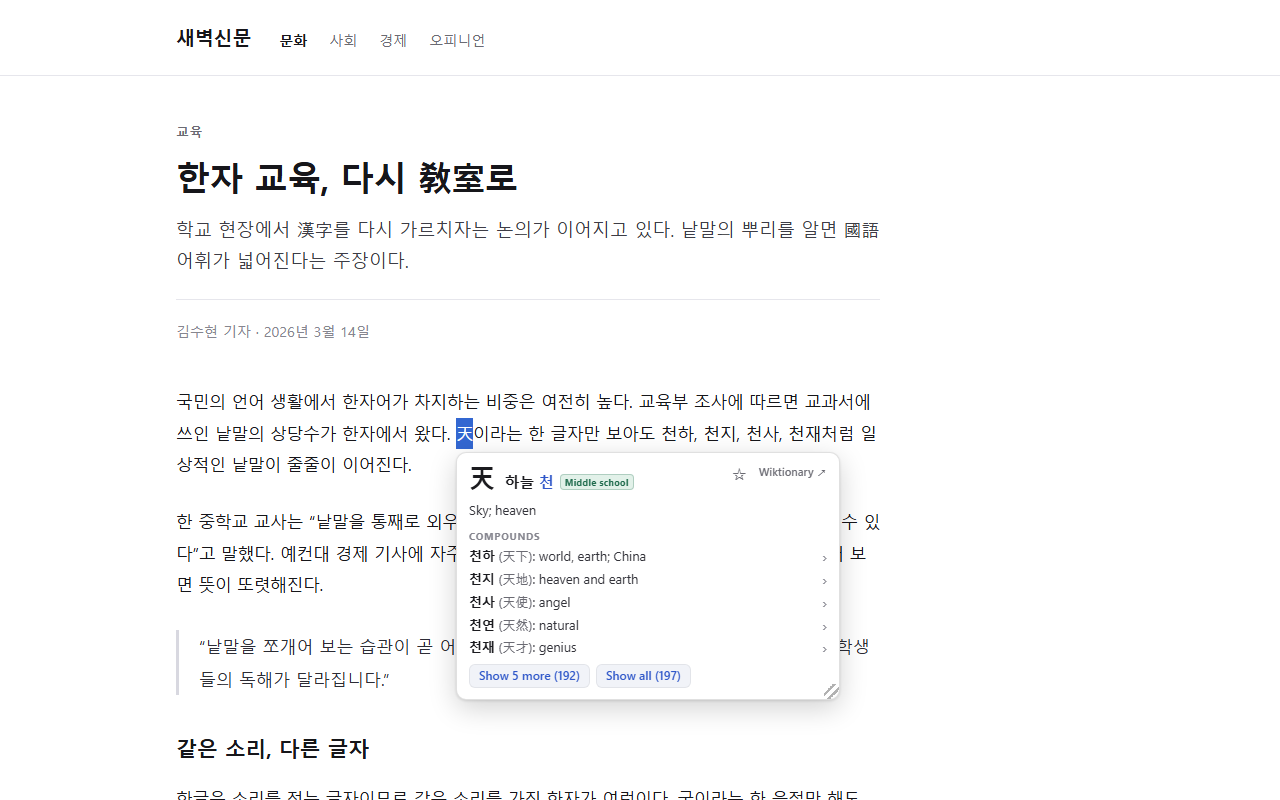
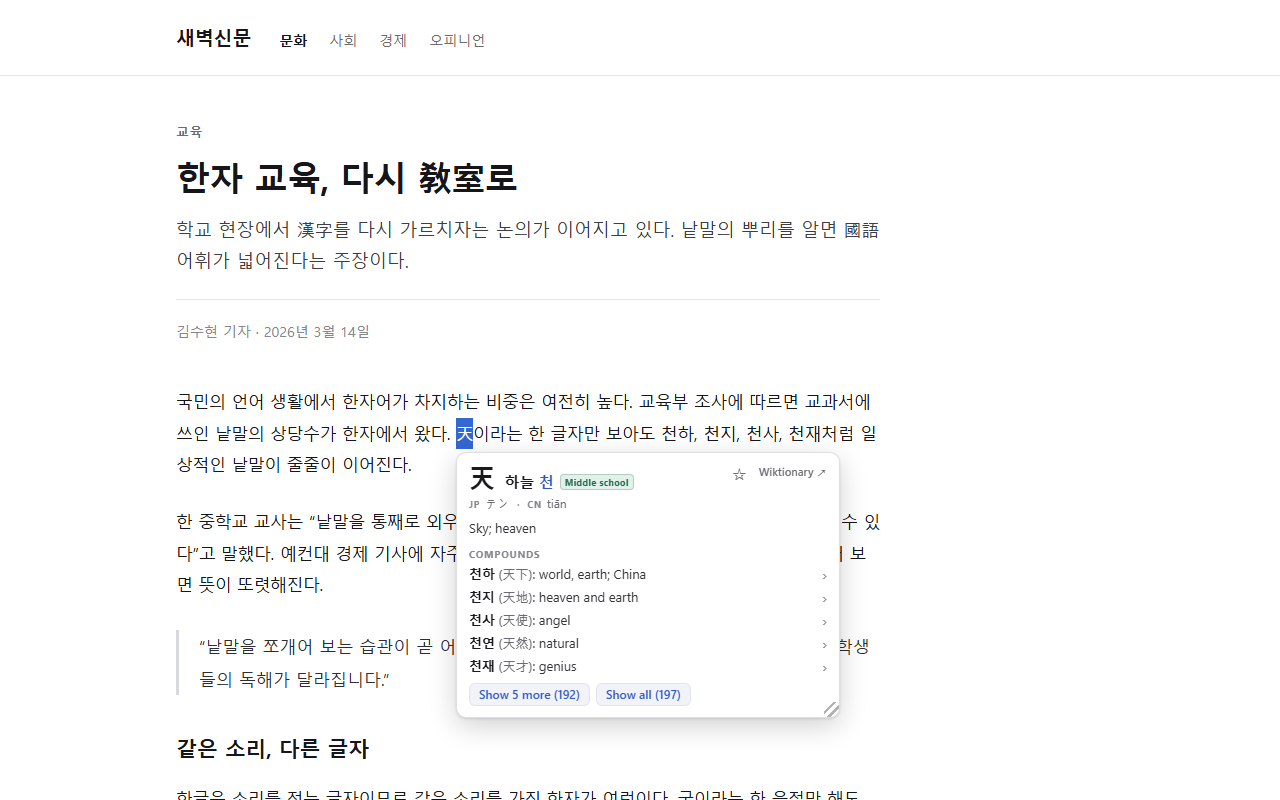
Screenshots: 1.2 scene refresh; scenes seed settings via set=
Both staging pages accept set= naming settings keys to turn on
through the same normalize step the worker uses, retiring the
hand-edit-and-revert capture practice; absent the param both pages
are byte-identical to before, proven by shots 3, 4, and 6
regenerating unchanged. Shots 1, 2, 8, 9 seed the reading toggles and
5 seeds native words, each keeping its subject with the new features
merely present, per direction. Shot 7 grew the new settings groups
and footer; its seal correctly retires under the room rule and the
checks now pin the groups and the in-frame footer instead. New DOM
checks pin the sino line text on 1 and 9, nested lines on 2 and 8,
and the pill pair on 5.

Changed region(s): [[0.3438, 0.625, 0.6562, 0.9062]]

diff --git a/pipeline/screenshots/shots-page.html b/pipeline/screenshots/shots-page.html
@@ -19,6 +19,7 @@
     scroll=N   window scroll offset before the selection is made
     w=N        popup width handed to the product's own resizePanel
     bottom=N   gap to leave under the popup when sizing it to its content
+    set=K,K    settings keys to turn on (e.g. set=jaReadings,zhReadings)
 
   Signals completion by setting documentElement.dataset.shotReady.
 -->
@@ -198,27 +199,43 @@ import { lookup, buildFullCompounds, buildUsedIn, buildReadingIndex }
   from "/extension/lookup.js";
 import { normalizeSavedState, normalizeSettings, checkKeys, toggleItem, joinItems }
   from "/extension/saved.js";
+/* The sino join is the worker's, not a copy of it: background.js guards every
+   chrome.* touch, so importing it here runs the real guardSino / attachSino
+   against the real sino.json. */
+import { guardSino, attachSino } from "/extension/background.js";
 
 const params = new URLSearchParams(location.search);
 const scene = params.get("scene") || "1";
 const scrollY = Number(params.get("scroll") || 0);
 
-const [hanja, words, variants] = await Promise.all(
-  ["hanja", "words", "variants"].map((n) =>
+const [hanja, words, variants, sinoRaw] = await Promise.all(
+  ["hanja", "words", "variants", "sino"].map((n) =>
     fetch("/extension/data/" + n + ".json").then((r) => r.json())));
 
 let readingIndex = null;
+const sino = guardSino(sinoRaw);
 const data = {
   hanja, words, variants,
   getReadingIndex: () => (readingIndex ||= buildReadingIndex(hanja)),
 };
 
 let savedState = normalizeSavedState(null);
-const settings = normalizeSettings(null, savedState);
+// ?set=jaReadings,zhReadings names settings keys a scene turns on, through the
+// same normalize step the worker uses; this replaces hand-editing the defaults
+// for a capture. Absent, the defaults stand and the page renders as before.
+const seeded = {};
+for (const key of (params.get("set") || "").split(",")) if (key) seeded[key] = true;
+const settings = normalizeSettings(seeded, savedState);
 
 function handle(msg) {
   switch (msg && msg.type) {
-    case "lookup": return lookup(String(msg.text || ""), data);
+    // Worker-style: only a sino-flagged request (content.js sets the flag when
+    // either seeded readings toggle is on) touches sino.json, so an unseeded
+    // scene's response is byte-identical to before the feature.
+    case "lookup": {
+      const result = lookup(String(msg.text || ""), data);
+      return msg.sino === true ? attachSino(result, sino) : result;
+    }
     case "compounds": return { ok: true, compounds: buildFullCompounds(msg.char, data) };
     case "usedIn": return { ok: true, words: buildUsedIn(msg.word, data) };
     case "openTab": return { ok: true };
@@ -256,6 +273,12 @@ await new Promise((res, rej) => {
 
 const api = globalThis.__hanjaHover;
 const sleep = (ms) => new Promise((r) => setTimeout(r, ms));
+
+// The popup reads its toggles from a settings cache that chrome.storage seeds
+// in the shipped build; a bare page hands the record to the test hook instead.
+// Only a seeded scene touches the hook, so without ?set= the cache stays null,
+// exactly as before.
+if (params.get("set")) api.setSettings(settings);
 
 function select(id) {
   const node = document.getElementById(id);

diff --git a/pipeline/screenshots/shots-panel.html b/pipeline/screenshots/shots-panel.html
@@ -19,6 +19,7 @@
     q=TEXT                       type TEXT into the search field and search
     collapse=NAME,NAME           collapse these saved folders by name (or prefix)
     expand=madeof                open the card's "Made of" row, as a tap does
+    set=KEY,KEY                  settings keys to turn on (e.g. set=nativeWords)
 
   Signals completion by setting documentElement.dataset.shotReady.
 -->
@@ -119,7 +120,12 @@ let savedState = normalizeSavedState({
   nextFolder: 3,
   nextItem: seedItems.length,
 });
-let settings = normalizeSettings({ v: 1, defaultFolderId: "f1" }, savedState);
+// ?set=nativeWords,jaReadings names settings keys a scene turns on, through
+// the same normalize step; this replaces hand-editing the defaults for a
+// capture. Absent, the record is byte-identical to what it always was.
+const seeded = {};
+for (const key of (params.get("set") || "").split(",")) if (key) seeded[key] = true;
+let settings = normalizeSettings({ v: 1, defaultFolderId: "f1", ...seeded }, savedState);
 
 function handle(msg) {
   const m = msg || {};
@@ -128,9 +134,9 @@ function handle(msg) {
       // The flags ride through exactly as the worker passes them: interpret
       // for typed channels, native only when the client's toggle is on, and
       // sino attaches its per-char readings after the join, worker-style.
-      // The stub's default settings leave both readings toggles off, so no
-      // request here ever carries the flag and the page renders exactly as
-      // it did before the feature.
+      // Absent ?set=, the stub's defaults leave every toggle off, so no
+      // request here ever carries a flag and the page renders exactly as
+      // it did before the features.
       const joined = attachFoundIn(
         attachDecomp(lookup(String(m.text || ""), data,
           { interpret: m.interpret === true, native: m.native === true }),

diff --git a/pipeline/make_screenshots.py b/pipeline/make_screenshots.py
@@ -85,7 +85,9 @@ SEPARATOR_DARK = (60, 64, 67)
 #
 # Every shot is either a whole-viewport page capture ("page") or a page capture
 # docked beside a side-panel capture ("composite"). `page` and `panel` are query
-# strings for the staging pages; `checks` are JS expressions that must all
+# strings for the staging pages; a "set" key in either turns the named settings
+# toggles on for the scene (the committed seeding path; no defaults are ever
+# hand-edited for a capture). `checks` are JS expressions that must all
 # evaluate true after the page signals ready, before anything is captured.
 # --------------------------------------------------------------------------
 
@@ -128,9 +130,14 @@ SHOTS = [
         # its glosses and the compounds it builds. 天 replaced 學 for variety
         # (學生 already fronts the Japanese shot) and won on glyph simplicity
         # and compound appeal (천사, 천재).
-        "page": {"scene": "1", "scroll": 0},
+        # 1.2: both readings toggles seeded, so the card carries its muted
+        # JP テン · CN tiān sub-line inside the same composition.
+        "page": {"scene": "1", "scroll": 0, "set": "jaReadings,zhReadings"},
         "checks": [POPUP_UP, head_is("\u5929"),
-                   has_text("compounds listed", ".compounds .cpd-hangul", "\ucc9c\uc0ac")],
+                   has_text("compounds listed", ".compounds .cpd-hangul", "\ucc9c\uc0ac"),
+                   ("reading sub-line carries both languages",
+                    'globalThis.__hanjaHover.query(".sino-line").textContent'
+                    ' === "JP\u30c6\u30f3\u00b7CNti\u0101n"')],
     },
     {
         "n": 2,
@@ -138,11 +145,16 @@ SHOTS = [
         # 국민 (hangul) highlighted: the hangul-to-hanja direction. Captured
         # dark: one shot of the five-store set answers "does it do dark mode",
         # and this one reads best inverted.
+        # 1.2: readings seeded, so the nested 國 and 民 component cards carry
+        # their smaller sibling-reading lines.
         "kind": "page",
         "dark": True,
-        "page": {"scene": "2", "scroll": 262},
+        "page": {"scene": "2", "scroll": 262, "set": "jaReadings,zhReadings"},
         "checks": [POPUP_UP, head_is("\u570b\u6c11"),
-                   has_text("hangul headline", ".card .hangul", "\uad6d\ubbfc")],
+                   has_text("hangul headline", ".card .hangul", "\uad6d\ubbfc"),
+                   ("a nested reading line rendered",
+                    'globalThis.__hanjaHover.queryAll(".card.component .sino-line")'
+                    ".length >= 1")],
     },
     {
         "n": 3,
@@ -172,13 +184,23 @@ SHOTS = [
         "kind": "composite",
         "panel_w": 560,
         "page": {"scene": "0", "scroll": 0},
-        "panel": {"view": "search", "q": "\uad6d\ubbfc"},
+        "panel": {"view": "search", "q": "\uad6d\ubbfc", "set": "nativeWords"},
         # The search view renders through content.js, so its nodes live in the
         # embedded panel's shadow root and only its own query hook sees them.
+        # 1.2: nativeWords seeded, so the scope pills sit above the results, in
+        # the panel page's own light DOM (hence document.* checks), All words
+        # active as the fresh-open default. 국민 is Sino-Korean, so the result
+        # list itself is unchanged.
         "checks": [head_is("國民"),
                    has_text("component cards", ".card .surface", "民"),
                    ("component section present",
-                    '!!globalThis.__hanjaHover.query(".components")')],
+                    '!!globalThis.__hanjaHover.query(".components")'),
+                   ("both scope pills render",
+                    'document.querySelectorAll(".scopebar .scope-pill")'
+                    ".length === 2"),
+                   ("All words is the active pill",
+                    'document.querySelector(".scope-pill--active")'
+                    '.textContent === "All words"')],
     },
     {
         "n": 6,
@@ -208,13 +230,21 @@ SHOTS = [
         "panel_w": 560,
         "page": {"scene": "0", "scroll": 200},
         "panel": {"view": "settings"},
+        # 1.2 made this view taller (the Search and Character cards groups, the
+        # about footer), and the product's own room rule now retires the seal:
+        # 44px remain under the content where the rule wants 230. The seal
+        # checks left with it; the footer bound proves the taller view still
+        # fits the frame uncropped.
         "checks": [
             panel_has("settings view mounted", ".view--settings"),
             panel_has("anki export section", ".view--settings", "Anki export"),
-            ("seal has room", 'document.querySelector(".view--settings")'
-                              '.classList.contains("view--roomy")'),
+            panel_has("search group present", ".settings-group", "Search"),
+            panel_has("character cards group present", ".settings-group",
+                      "Character cards"),
+            ("about footer fully in frame",
+             'document.querySelector(".settings-about")'
+             ".getBoundingClientRect().bottom < 800"),
         ],
-        "pixels": "seal",
     },
     {
         "n": 8,
@@ -222,13 +252,17 @@ SHOTS = [
         "kind": "page",
         # A Japanese page: 学生 highlighted resolves to the canonical 學生, and
         # the variant note that says so is the whole point of the shot.
-        "page": {"scene": "5", "scroll": 230},
+        # 1.2: readings seeded, the natural fit: the component cards' JP lines
+        # (ガク, セイ・ショウ) sit beside Japanese body text.
+        "page": {"scene": "5", "scroll": 230, "set": "jaReadings,zhReadings"},
         "checks": [
             POPUP_UP,
             head_is("\u5b78\u751f"),
             has_text("variant note", ".canonical", "\u5b66\u751f \u2192 \u5b78\u751f"),
             has_text("component card 學", ".card .surface", "\u5b78"),
             has_text("component card 生", ".card .surface", "\u751f"),
+            has_text("reading line on a component card",
+                     ".card.component .sino-line", "ガク"),
             ("both component heads are in frame",
              '[...globalThis.__hanjaHover.queryAll(".card .surface")]'
              ".every((n) => n.getBoundingClientRect().bottom < 800)"),
@@ -244,9 +278,15 @@ SHOTS = [
         # their readings (幺's arrives via the readings[0] fallback), and the
         # "Part of" row underneath — 樂 is inside 9 characters, 藥 among them.
         # Replaced 學 here for variety: 學生 already fronts the Japanese shot.
-        "panel": {"view": "search", "q": "樂", "expand": "madeof"},
+        # 1.2: readings seeded; 樂 is the set's richest entry, two readings in
+        # each language, aligned pairwise (악 ↔ ガク ↔ yuè).
+        "panel": {"view": "search", "q": "樂", "expand": "madeof",
+                  "set": "jaReadings,zhReadings"},
         "checks": [
             head_is("樂"),
+            ("reading line reads both languages in display order",
+             'globalThis.__hanjaHover.query(".sino-line").textContent'
+             ' === "JPガク·ラク·CNyuè·lè"'),
             ("made-of row is open",
              'globalThis.__hanjaHover.query(".madeof-row")'
              '.getAttribute("aria-expanded") === "true"'),
